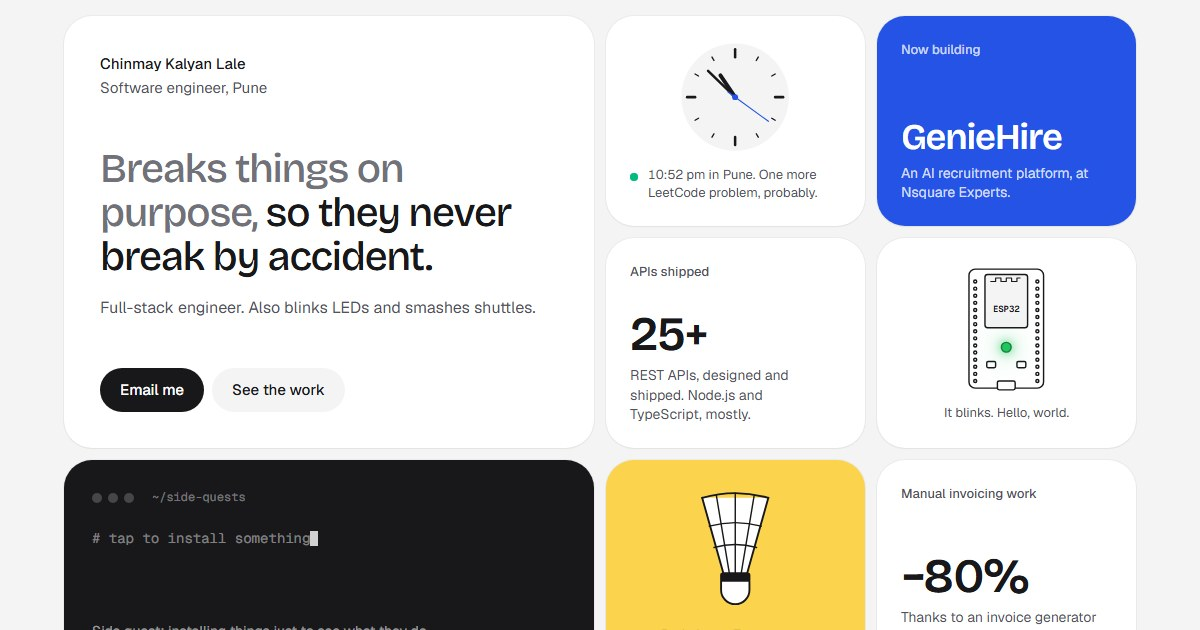
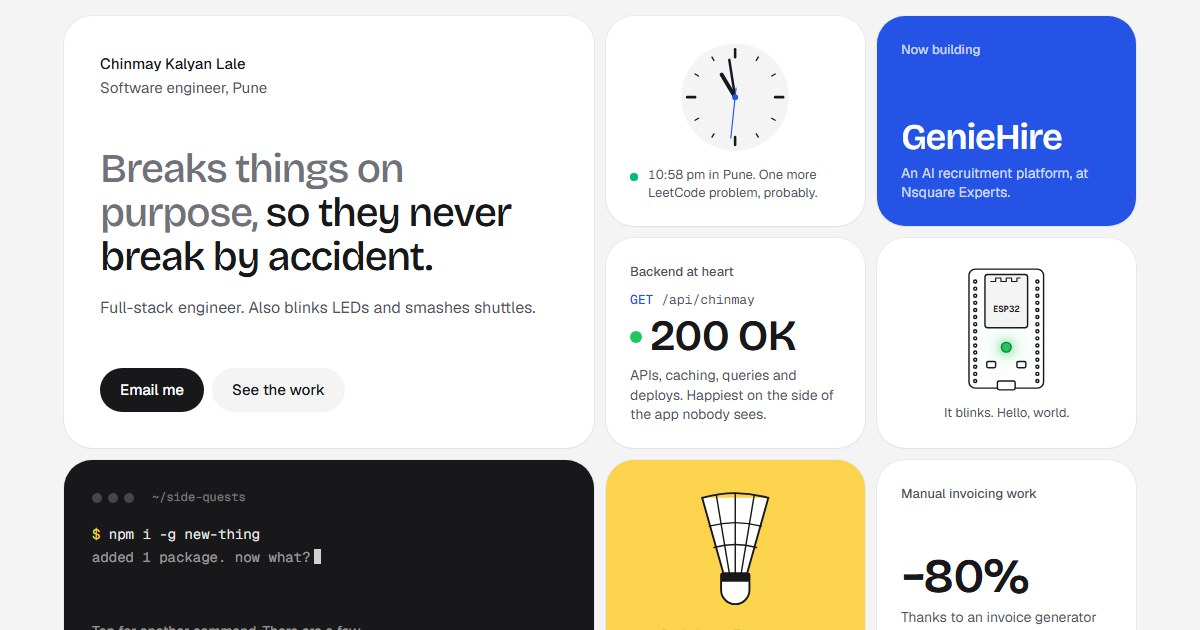
Funnier terminal, backend tile, richer "Find me elsewhere"
- Terminal: ten tongue-in-cheek commands (git push --force, git blame,
  sudo make me a sandwich...), keeps the previous one as history, caret at
  the end of the line, and types its first command when it scrolls into view
- Replace the "25+ APIs" tile with "Backend at heart": GET /api/chinmay ->
  200 OK, plus what that covers
- "Find me elsewhere": GitHub, LinkedIn and Email rows with coloured icon
  squares, handles and hover states
- Refreshed OG image

diff --git a/src/components/sections/Bento.tsx b/src/components/sections/Bento.tsx
@@ -11,6 +11,31 @@ const DRIVERS = [
   ["Node.js", "Express.js", "Spring Boot", "PostgreSQL", "MongoDB", "DynamoDB", "Redis", "AWS", "Docker", "Git / GitHub", "Postman", "Figma"],
 ];
 
+function GitHubMark() {
+  return (
+    <svg viewBox="0 0 24 24" className="h-[18px] w-[18px]" fill="currentColor" aria-hidden="true">
+      <path d="M12 .3a12 12 0 00-3.8 23.38c.6.11.82-.26.82-.58v-2.04c-3.34.73-4.04-1.61-4.04-1.61-.55-1.39-1.33-1.76-1.33-1.76-1.09-.74.08-.73.08-.73 1.2.09 1.84 1.24 1.84 1.24 1.07 1.83 2.81 1.3 3.5 1 .1-.78.42-1.31.76-1.61-2.67-.3-5.47-1.33-5.47-5.93 0-1.31.47-2.38 1.24-3.22-.14-.3-.54-1.52.1-3.18 0 0 1.01-.32 3.3 1.23a11.5 11.5 0 016 0c2.28-1.55 3.29-1.23 3.29-1.23.64 1.66.24 2.88.12 3.18.77.84 1.23 1.91 1.23 3.22 0 4.61-2.8 5.63-5.48 5.92.42.36.81 1.1.81 2.22v3.29c0 .32.21.7.82.58A12 12 0 0012 .3z" />
+    </svg>
+  );
+}
+
+function LinkedInMark() {
+  return (
+    <svg viewBox="0 0 24 24" className="h-[18px] w-[18px]" fill="currentColor" aria-hidden="true">
+      <path d="M4.98 3.5a2.5 2.5 0 110 5 2.5 2.5 0 010-5zM3 9.75h4v11H3v-11zM9.5 9.75h3.8v1.5h.06c.53-1 1.83-2.06 3.77-2.06 4.03 0 4.77 2.65 4.77 6.1v5.46h-4v-4.84c0-1.15-.02-2.64-1.6-2.64-1.62 0-1.86 1.26-1.86 2.56v4.92h-4v-11z" />
+    </svg>
+  );
+}
+
+function MailMark() {
+  return (
+    <svg viewBox="0 0 24 24" className="h-[18px] w-[18px]" fill="none" stroke="currentColor" strokeWidth="1.8" strokeLinecap="round" strokeLinejoin="round" aria-hidden="true">
+      <rect x="3" y="5" width="18" height="14" rx="2.5" />
+      <path d="M4 7l8 6 8-6" />
+    </svg>
+  );
+}
+
 const at = (area: string, i: number) => ({ gridArea: area, "--i": i }) as React.CSSProperties;
 
 function Arrow() {
@@ -70,12 +95,18 @@ export default function Bento() {
           </div>
         </div>
 
-        {/* apis */}
+        {/* backend */}
         <div data-reveal className="tile flex flex-col justify-between" style={at("uptime", 3)}>
-          <p className="tile-label">APIs shipped</p>
+          <p className="tile-label">Backend at heart</p>
           <div>
-            <p className="tile-big text-[clamp(2.6rem,4vw,3.4rem)]">25+</p>
-            <p className="mt-2 text-[14px] leading-snug text-ink-2">REST APIs, designed and shipped. Node.js and TypeScript, mostly.</p>
+            <p className="font-mono text-[13px] text-ink-2">
+              <span className="font-medium text-blue">GET</span> /api/chinmay
+            </p>
+            <p className="tile-big mt-1 flex items-center gap-2 text-[clamp(2.4rem,3.6vw,3rem)]">
+              <span className="h-3 w-3 shrink-0 rounded-full bg-led" aria-hidden="true" />
+              200 OK
+            </p>
+            <p className="mt-2 text-[14px] leading-snug text-ink-2">APIs, caching, queries and deploys. Happiest on the side of the app nobody sees.</p>
           </div>
         </div>
 
@@ -155,22 +186,29 @@ export default function Bento() {
         </a>
 
         {/* social */}
-        <div data-reveal className="tile flex flex-col justify-between" style={at("social", 10)}>
-          <p className="tile-label">Elsewhere</p>
-          <ul className="space-y-1">
+        <div data-reveal className="tile flex flex-col justify-between !p-3" style={at("social", 10)}>
+          <p className="tile-label px-3 pt-2">Find me elsewhere</p>
+          <ul className="space-y-0.5">
             {[
-              { label: "LinkedIn", href: profile.linkedin },
-              { label: "GitHub", href: profile.github },
+              { label: "GitHub", handle: "@ChinmayLale", href: profile.github, icon: <GitHubMark />, tone: "bg-ink text-white" },
+              { label: "LinkedIn", handle: "in/ChinmayLale", href: profile.linkedin, icon: <LinkedInMark />, tone: "bg-blue text-white" },
+              { label: "Email", handle: "the fastest way", href: `mailto:${profile.email}`, icon: <MailMark />, tone: "bg-sun text-ink" },
             ].map((l) => (
               <li key={l.label}>
                 <a
                   href={l.href}
-                  target="_blank"
+                  target={l.href.startsWith("http") ? "_blank" : undefined}
                   rel="noreferrer"
-                  className="flex items-center justify-between rounded-xl px-3 py-2.5 font-medium transition-colors hover:bg-page"
+                  className="group flex items-center gap-3 rounded-2xl p-1.5 transition-colors duration-150 hover:bg-page"
                 >
-                  {l.label}
-                  <Arrow />
+                  <span className={`grid h-9 w-9 shrink-0 place-items-center rounded-xl ${l.tone}`}>{l.icon}</span>
+                  <span className="min-w-0 flex-1 leading-tight">
+                    <span className="block font-medium">{l.label}</span>
+                    <span className="block truncate text-[13px] text-ink-2">{l.handle}</span>
+                  </span>
+                  <span className="mr-1 text-ink-3 transition-[translate,color] duration-200 group-hover:-translate-y-0.5 group-hover:translate-x-0.5 group-hover:text-ink">
+                    <Arrow />
+                  </span>
                 </a>
               </li>
             ))}

diff --git a/src/components/ui/Toys.tsx b/src/components/ui/Toys.tsx
@@ -45,27 +45,40 @@ export function Clock() {
   );
 }
 
-/* ───────────── Terminal: tap it and it installs something ───────────── */
+/* ───────────── Terminal: tap it and it runs another (questionable) command ───────────── */
 
 const SESSIONS = [
   ["npm i -g new-thing", "added 1 package. now what?"],
-  ["git clone cool-repo", "cloned. skimming the README."],
+  ["git push --force", "just kidding. never on main."],
+  ["git commit -m \"final final v2\"", "1 file changed, 0 regrets."],
+  ["rm -rf node_modules", "freed 2.3 GB. reinstalling anyway."],
+  ["git blame", "it was me. it's always me."],
+  ["npm run build", "works on my machine."],
+  ["sudo make me a sandwich", "nice try."],
   ["docker run why-not", "running. no idea why yet."],
+  ["curl wttr.in/pune", "warm. obviously."],
   ["apt install curiosity", "already the newest version."],
 ];
 
+function Caret() {
+  return <span className="ml-1 inline-block h-[1.05em] w-[0.5em] translate-y-[2px] animate-pulse bg-white/80" aria-hidden="true" />;
+}
+
 export function Terminal() {
   const [n, setN] = useState(-1);
+  const [prev, setPrev] = useState(-1);
   const [typed, setTyped] = useState("");
   const [done, setDone] = useState(false);
   const timer = useRef<number | undefined>(undefined);
-
-  useEffect(() => () => window.clearInterval(timer.current), []);
+  const self = useRef<HTMLButtonElement>(null);
+  const current = useRef(-1);
 
   const run = () => {
-    const next = (n + 1) % SESSIONS.length;
+    const next = (current.current + 1) % SESSIONS.length;
     const [cmd] = SESSIONS[next];
     window.clearInterval(timer.current);
+    setPrev(current.current);
+    current.current = next;
     setN(next);
     setDone(false);
     if (reduceMotion()) {
@@ -85,28 +98,63 @@ export function Terminal() {
     }, 40);
   };
 
+  // types its first command by itself the first time it scrolls into view
+  useEffect(() => {
+    const el = self.current;
+    if (!el) return;
+    const io = new IntersectionObserver(
+      ([e]) => {
+        if (!e.isIntersecting) return;
+        io.disconnect();
+        window.setTimeout(() => {
+          if (current.current < 0) run();
+        }, 700);
+      },
+      { threshold: 0.6 },
+    );
+    io.observe(el);
+    return () => {
+      io.disconnect();
+      window.clearInterval(timer.current);
+    };
+  }, []);
+
   return (
-    <button type="button" onClick={run} className="press flex h-full w-full flex-col text-left" aria-label="Terminal: install something">
+    <button ref={self} type="button" onClick={run} className="press flex h-full w-full flex-col text-left" aria-label="Terminal: run another command">
       <span className="flex items-center gap-1.5" aria-hidden="true">
         <span className="h-2.5 w-2.5 rounded-full bg-white/20" />
         <span className="h-2.5 w-2.5 rounded-full bg-white/20" />
         <span className="h-2.5 w-2.5 rounded-full bg-white/20" />
         <span className="ml-3 font-mono text-[12px] text-white/40">~/side-quests</span>
       </span>
-      <span className="mt-5 block flex-1 font-mono text-[13px] leading-[1.7] text-white/90 sm:text-[14px]" aria-live="polite">
+      <span className="mt-4 block min-h-0 flex-1 overflow-hidden font-mono text-[13px] leading-[1.6] text-white/90 sm:text-[14px]" aria-live="polite">
+        {prev >= 0 && (
+          <span className="block text-white/30">
+            <span className="block">$ {SESSIONS[prev][0]}</span>
+            <span className="block">{SESSIONS[prev][1]}</span>
+          </span>
+        )}
         {n < 0 ? (
-          <span className="text-white/45"># tap to install something</span>
+          <span className="block text-white/45">
+            # tap to run something
+            <Caret />
+          </span>
         ) : (
           <>
             <span className="block">
               <span className="text-sun">$</span> {typed}
+              {!done && <Caret />}
             </span>
-            {done && <span className="block text-white/45">{SESSIONS[n][1]}</span>}
+            {done && (
+              <span className="block text-white/55">
+                {SESSIONS[n][1]}
+                <Caret />
+              </span>
+            )}
           </>
         )}
-        <span className="inline-block h-[1.1em] w-[0.55em] translate-y-[3px] animate-pulse bg-white/80" aria-hidden="true" />
       </span>
-      <span className="text-[14px] text-white/55">Side quest: installing things just to see what they do.</span>
+      <span className="text-[14px] text-white/55">Tap for another command. There are a few.</span>
     </button>
   );
 }
